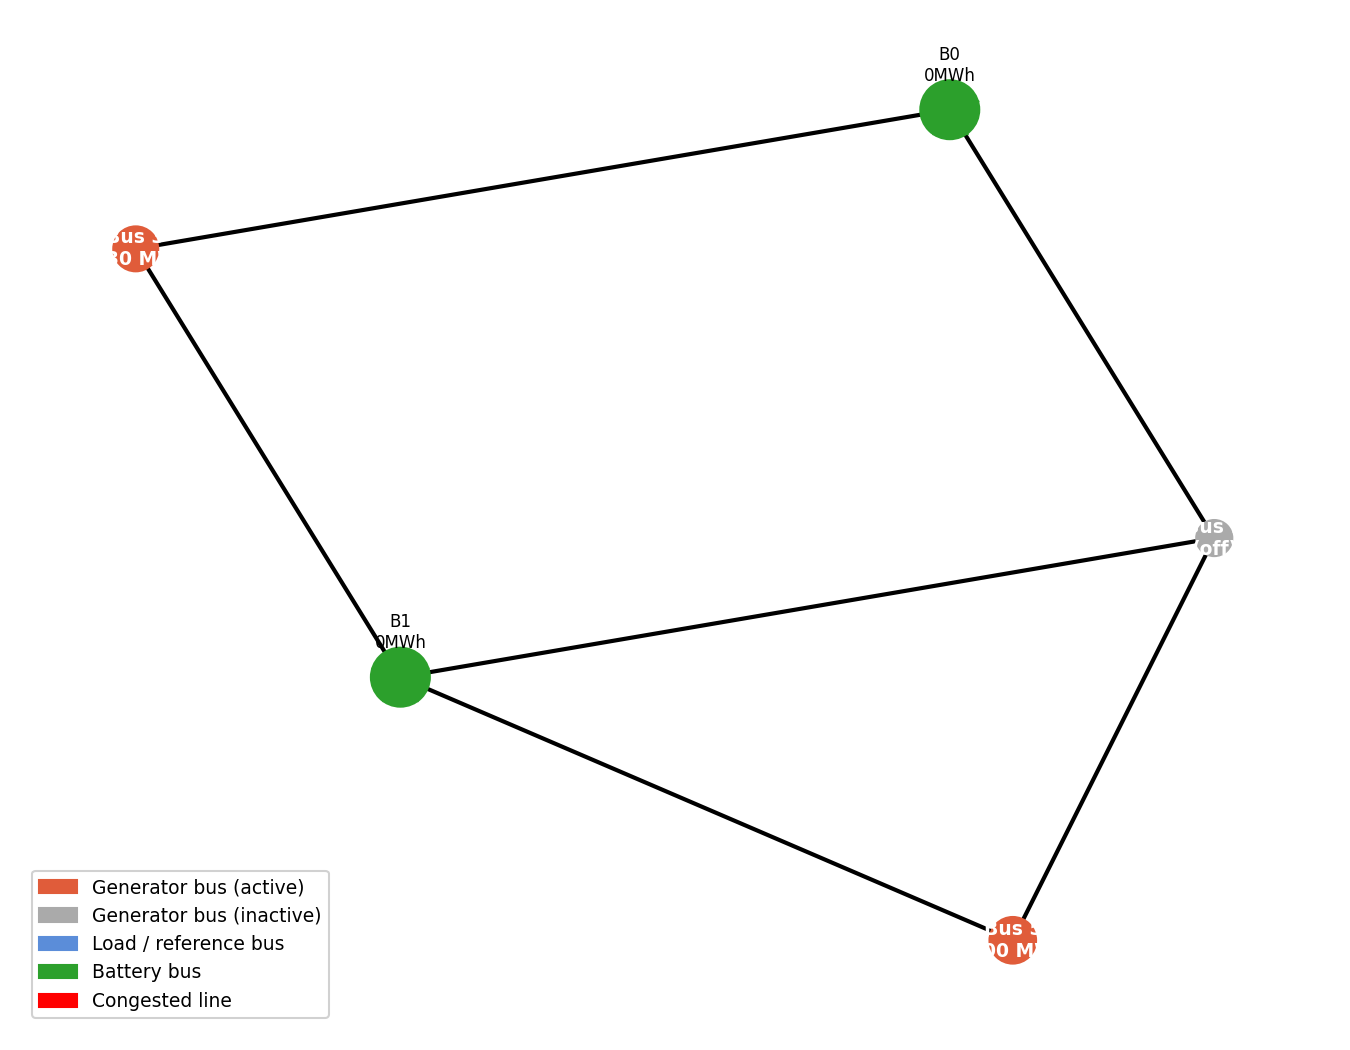
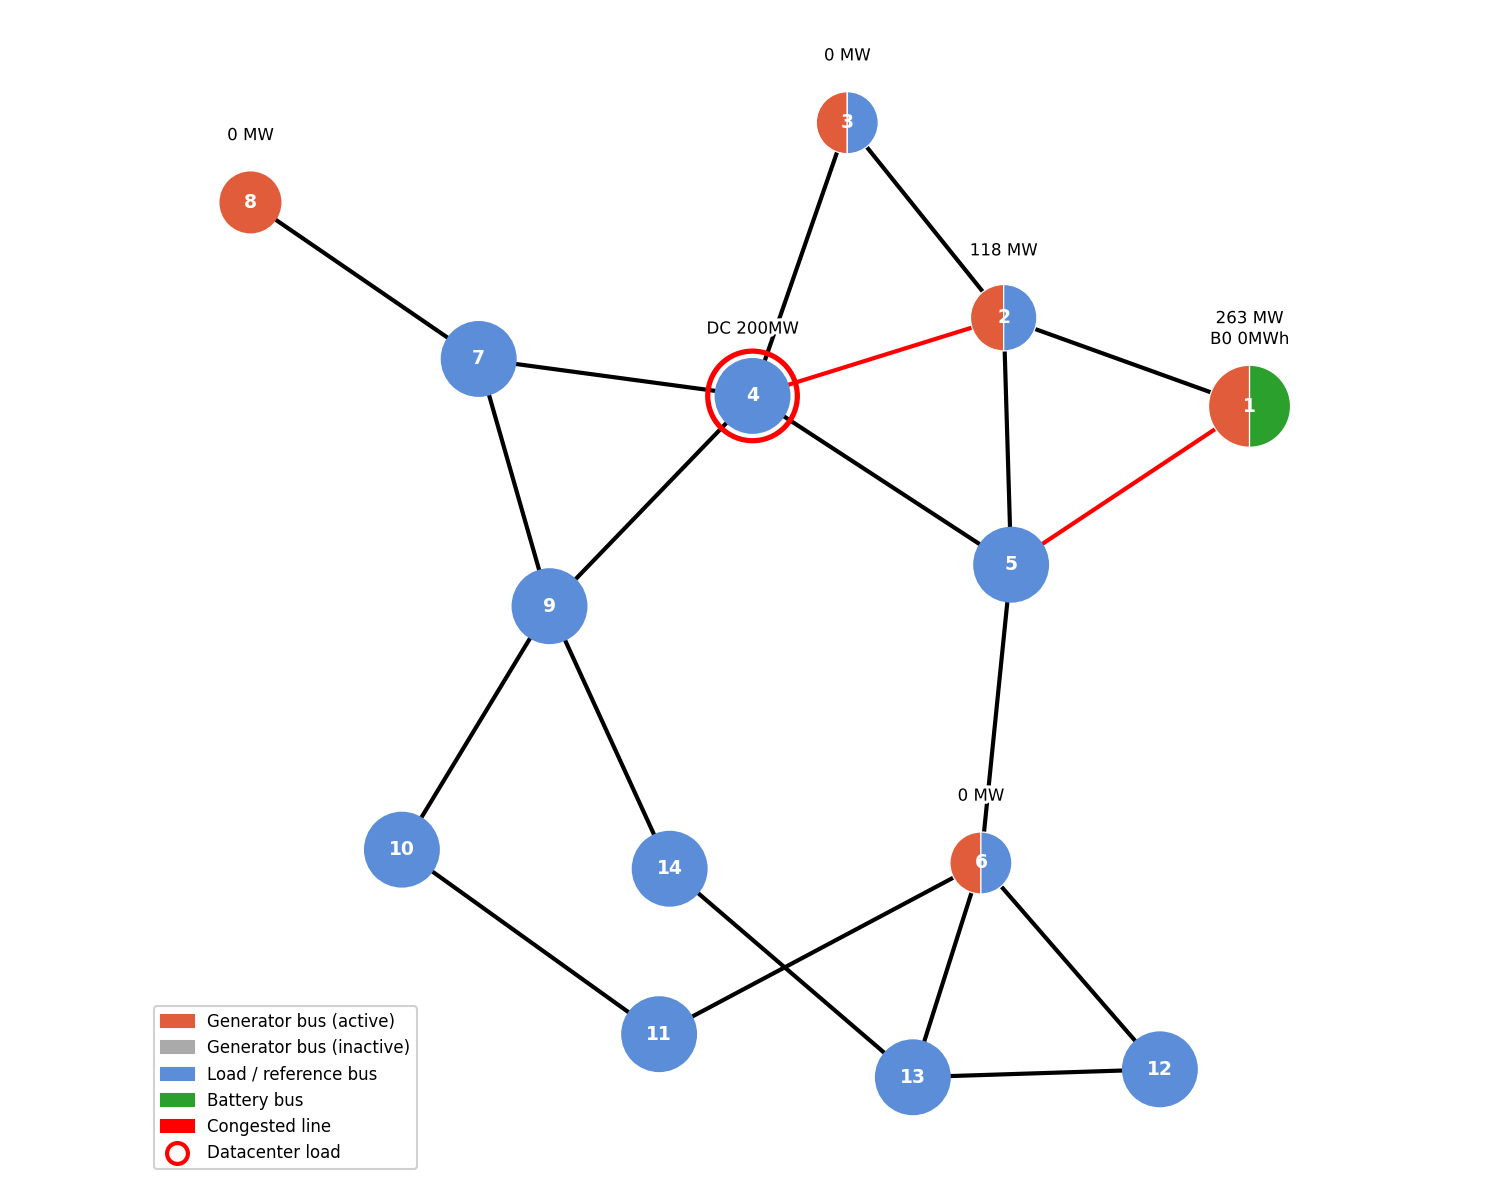
Fix dashboard plot x-axis scaling for multi-day (up to 168h) time horizons
save_dispatch_overview and save_demand_plot used a fixed figure width with
one x-tick per hour, which broke down once T grew from 24h to a full week:
labels overlapped into an unreadable block and the congested-hours
annotation ran off the right edge. Figure width and tick spacing now scale
with T, the annotation compacts hours into ranges and wraps to fit, and bar
widths shrink so bars don't smear together at large T.

diff --git a/quantum-storage-siting/plots.py b/quantum-storage-siting/plots.py
@@ -1,7 +1,57 @@
 import os
+import textwrap
 import networkx as nx
 import matplotlib.pyplot as plt
 import matplotlib.patches as mpatches
+
+
+# ---------------------------------------------------------------------------
+# Time-axis scaling helpers — keep multi-day (T up to 168h) plots readable
+# instead of cramming one tick/label per hour into a fixed-width figure.
+# ---------------------------------------------------------------------------
+
+def _time_axis_figwidth(T, base=13.0, min_width=13.0, max_width=34.0, per_hour=0.11):
+    """Figure width (inches) that grows with T but saturates for long horizons."""
+    return max(min_width, min(max_width, base + per_hour * max(0, T - 24)))
+
+
+def _hour_tick_step(T, max_ticks=28):
+    """Pick a 'nice' hour spacing so tick labels never overlap regardless of T."""
+    if T <= max_ticks:
+        return 1
+    for step in (2, 3, 4, 6, 8, 12, 24, 48, 72):
+        if -(-T // step) <= max_ticks:  # ceil division
+            return step
+    return 168
+
+
+def _set_hour_axis(ax, T, xlabel=None):
+    step = _hour_tick_step(T)
+    ticks = list(range(1, T + 1, step))
+    if ticks[-1] != T:
+        ticks.append(T)
+    ax.set_xticks(ticks)
+    ax.set_xlim(0.5, T + 0.5)
+    if T > 24:
+        ax.tick_params(axis="x", labelrotation=45)
+    if xlabel:
+        ax.set_xlabel(xlabel, fontsize=10)
+
+
+def _format_congested_hours(congested_hours, max_chars=60):
+    """Compact a possibly-long set of hours into ranges, wrapped to fit the figure."""
+    hours = sorted(congested_hours)
+    ranges = []
+    start = prev = hours[0]
+    for h in hours[1:]:
+        if h == prev + 1:
+            prev = h
+            continue
+        ranges.append(f"{start}" if start == prev else f"{start}-{prev}")
+        start = prev = h
+    ranges.append(f"{start}" if start == prev else f"{start}-{prev}")
+    text = f"Red shading = congested hour(s): {', '.join(ranges)}"
+    return "\n".join(textwrap.wrap(text, width=max_chars))
 
 
 # ---------------------------------------------------------------------------
@@ -511,7 +561,7 @@ def save_dispatch_overview(result, opt_name, T, assets_file, generators, batteri
                   "#1f77b4", "#8c564b", "#bcbd22"]
     bat_colors = ["#9467bd", "#8c564b", "#17becf", "#e377c2", "#7f7f7f", "#bcbd22"]
 
-    fig, axes = plt.subplots(4, 1, figsize=(13, 11), sharex=True)
+    fig, axes = plt.subplots(4, 1, figsize=(_time_axis_figwidth(T), 11), sharex=True)
     fig.suptitle(f"{opt_name} Overview | T={T}h | {assets_file}", fontsize=13, y=0.98)
 
     congested_hours = {t + 1 for t, lines in enumerate(result.congested_lines) if lines}
@@ -581,21 +631,19 @@ def save_dispatch_overview(result, opt_name, T, assets_file, generators, batteri
 
     # panel 4: hourly cost
     ax = axes[3]
-    ax.bar(hours, result.hourly_costs[:T], color="#7f7f7f", alpha=0.75, width=0.7)
+    ax.bar(hours, result.hourly_costs[:T], color="#7f7f7f", alpha=0.75, width=max(0.15, min(0.7, 60.0 / max(T, 1))))
     ax.set_ylabel("Cost ($)", fontsize=10)
-    ax.set_xlabel("Hour", fontsize=10)
     ax.set_title("Hourly Generation Cost", fontsize=10)
     ax.grid(axis="y", linestyle="--", alpha=0.35)
 
     if congested_hours:
         axes[0].annotate(
-            f"Red shading = congested hour(s): {sorted(congested_hours)}",
-            xy=(0.01, 0.97), xycoords="axes fraction",
-            fontsize=7.5, color="#cc0000", va="top",
+            _format_congested_hours(congested_hours),
+            xy=(0.99, 0.97), xycoords="axes fraction",
+            fontsize=7.5, color="#cc0000", va="top", ha="right",
         )
 
-    ax.set_xticks(hours)
-    ax.set_xlim(0.5, T + 0.5)
+    _set_hour_axis(ax, T, xlabel="Hour")
     plt.tight_layout(rect=[0, 0, 1, 0.97])
     filename = os.path.join(
         out_dir, f"{opt_name.lower()}_{T}h_{assets_file.replace('.py', '')}_overview.png"
@@ -622,21 +670,20 @@ def save_demand_plot(grid, out_dir=None):
 
     total = demand.sum(axis=0)
 
-    fig, ax = plt.subplots(figsize=(11, 5))
+    bar_width = max(0.15, min(0.8, 60.0 / max(T_d, 1)))
+    fig, ax = plt.subplots(figsize=(_time_axis_figwidth(T_d, base=11.0, min_width=11.0, max_width=32.0), 5))
     bottom = np.zeros(T_d)
     for idx, (label, color) in zip(bus_indices, zip(bus_labels, bus_colors)):
         if idx < demand.shape[0]:
             ax.bar(hours, demand[idx], bottom=bottom, label=label,
-                   color=color, alpha=0.75, width=0.8)
+                   color=color, alpha=0.75, width=bar_width)
             bottom += demand[idx]
 
     ax.plot(hours, total, color="black", linewidth=2, marker="o", markersize=4,
             label="Total demand")
-    ax.set_xlabel("Hour", fontsize=11)
     ax.set_ylabel("Demand (MW)", fontsize=11)
-    ax.set_title("24-Hour Demand Profile", fontsize=13, pad=12)
-    ax.set_xticks(hours)
-    ax.set_xlim(0.5, T_d + 0.5)
+    ax.set_title(f"{T_d}-Hour Demand Profile", fontsize=13, pad=12)
+    _set_hour_axis(ax, T_d, xlabel="Hour")
     ax.legend(loc="upper left", fontsize=9)
     ax.grid(axis="y", linestyle="--", alpha=0.4)
 